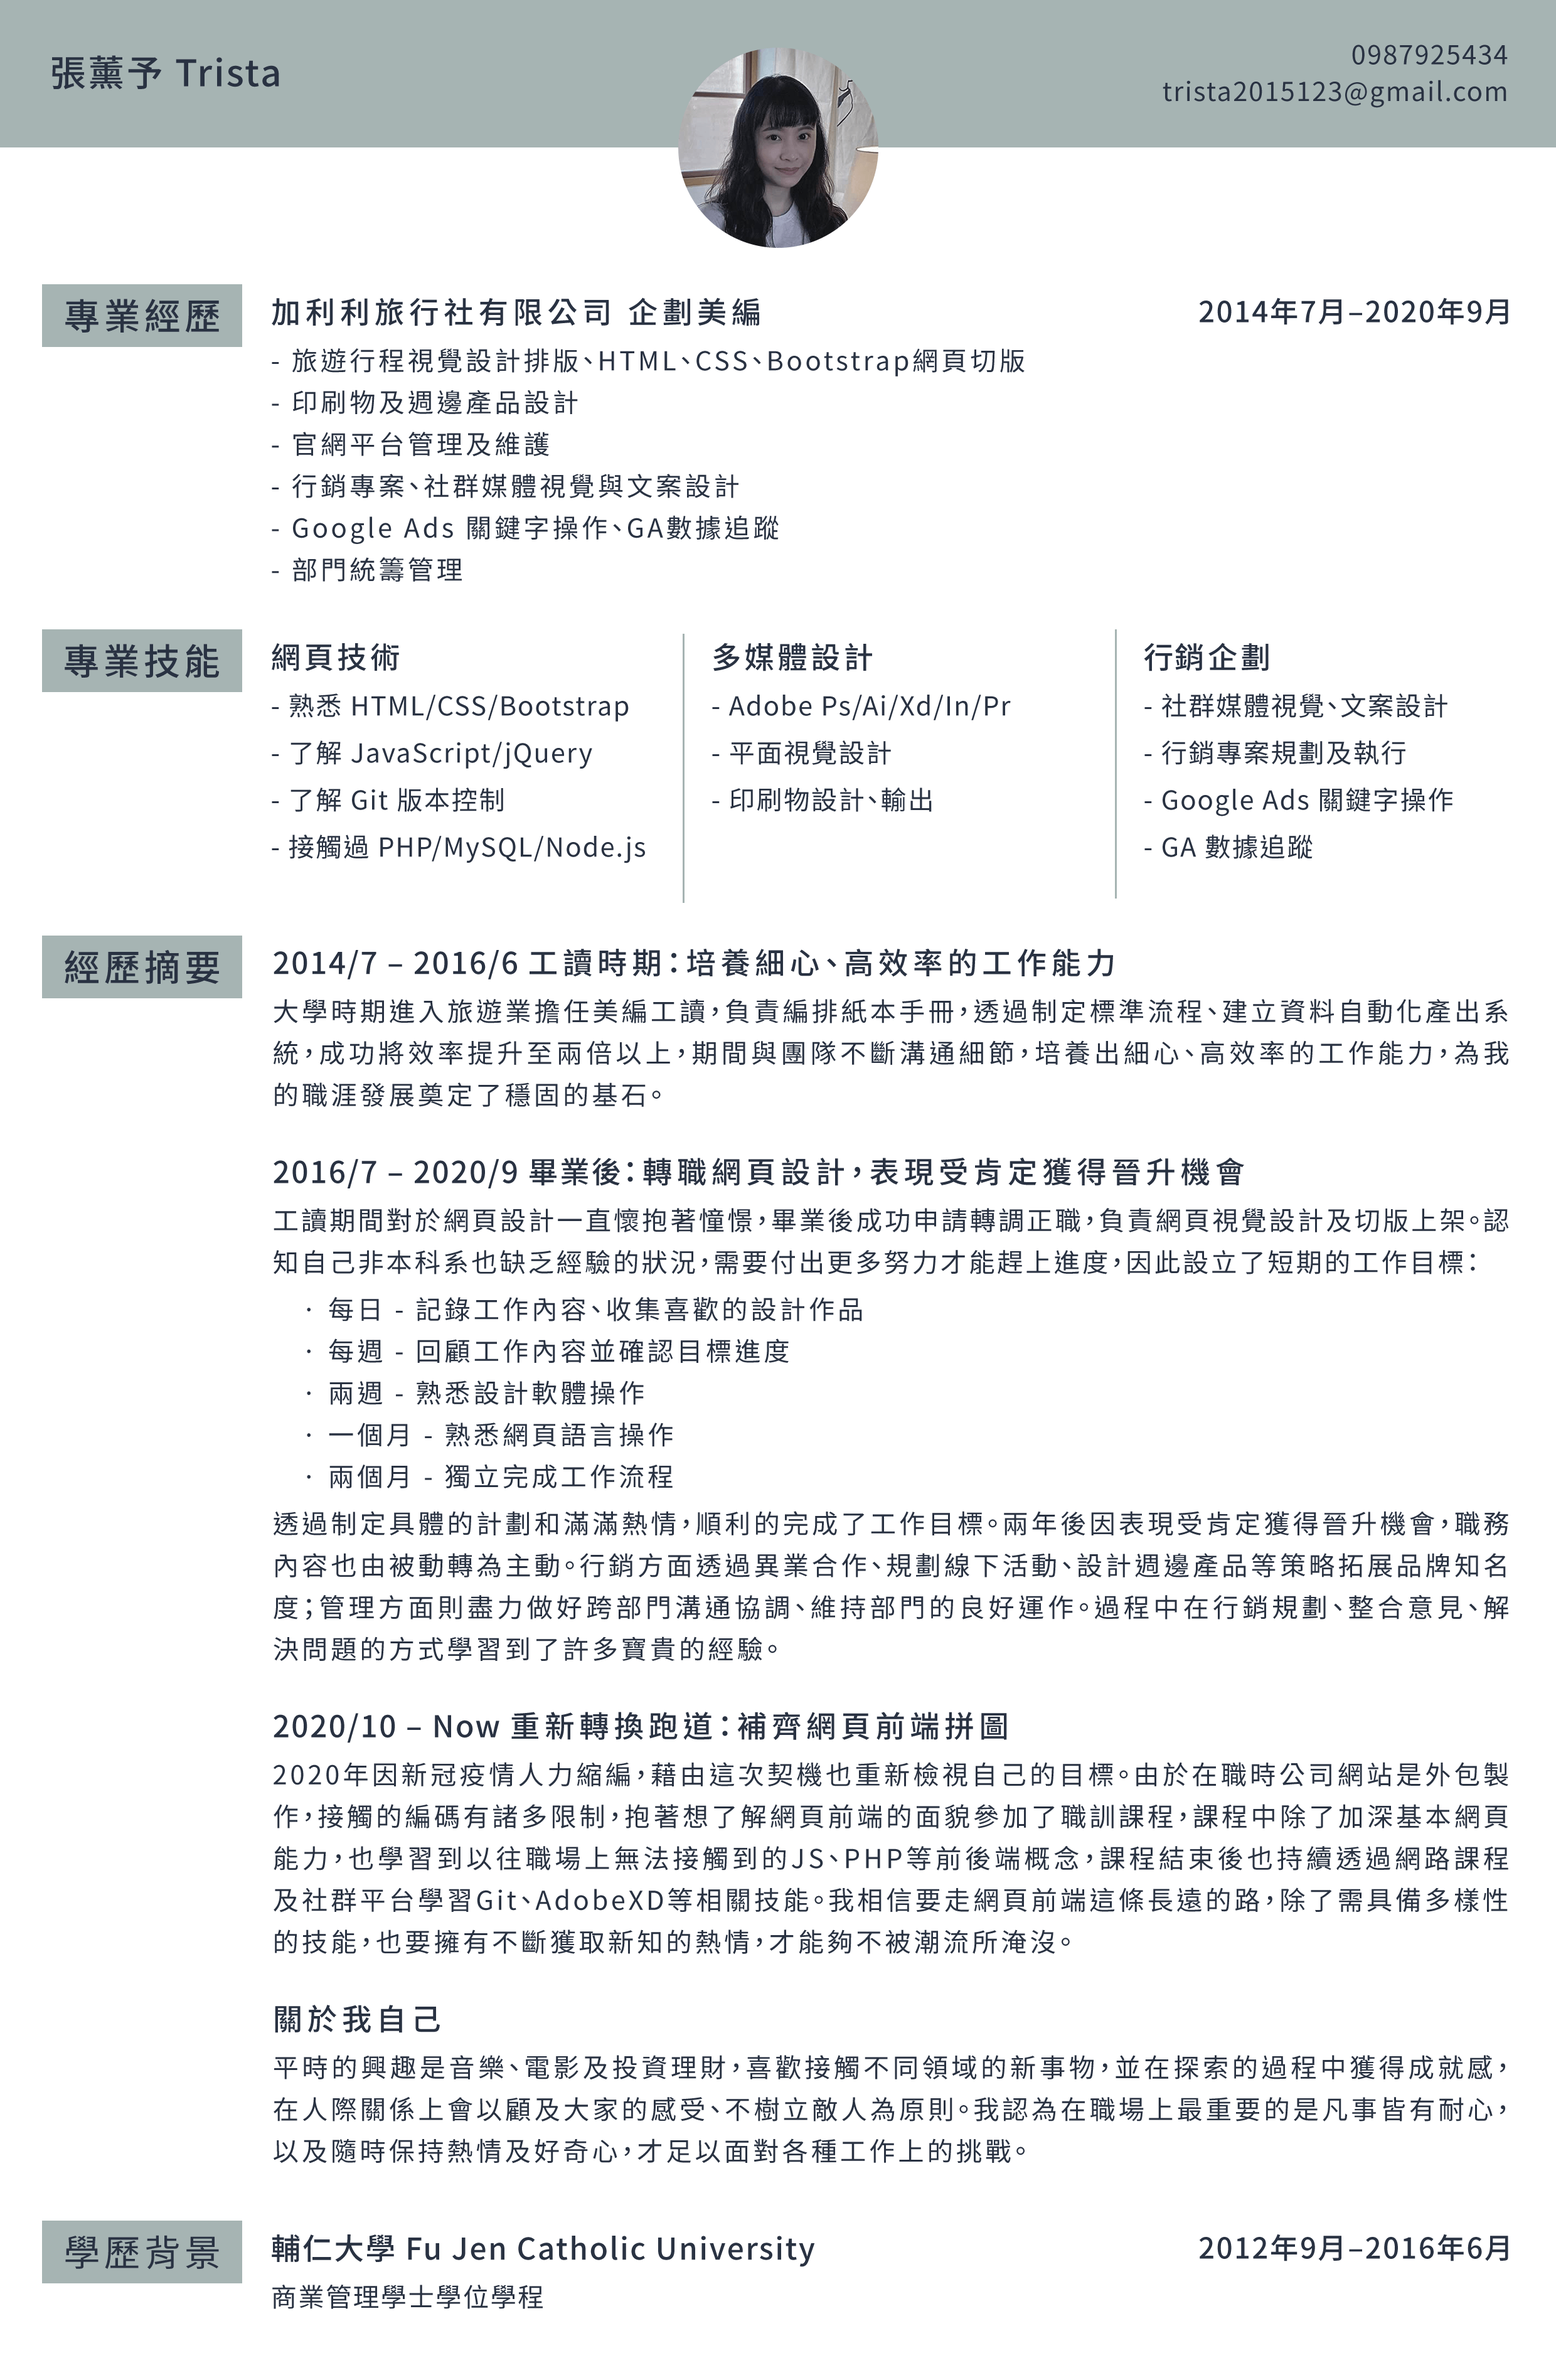
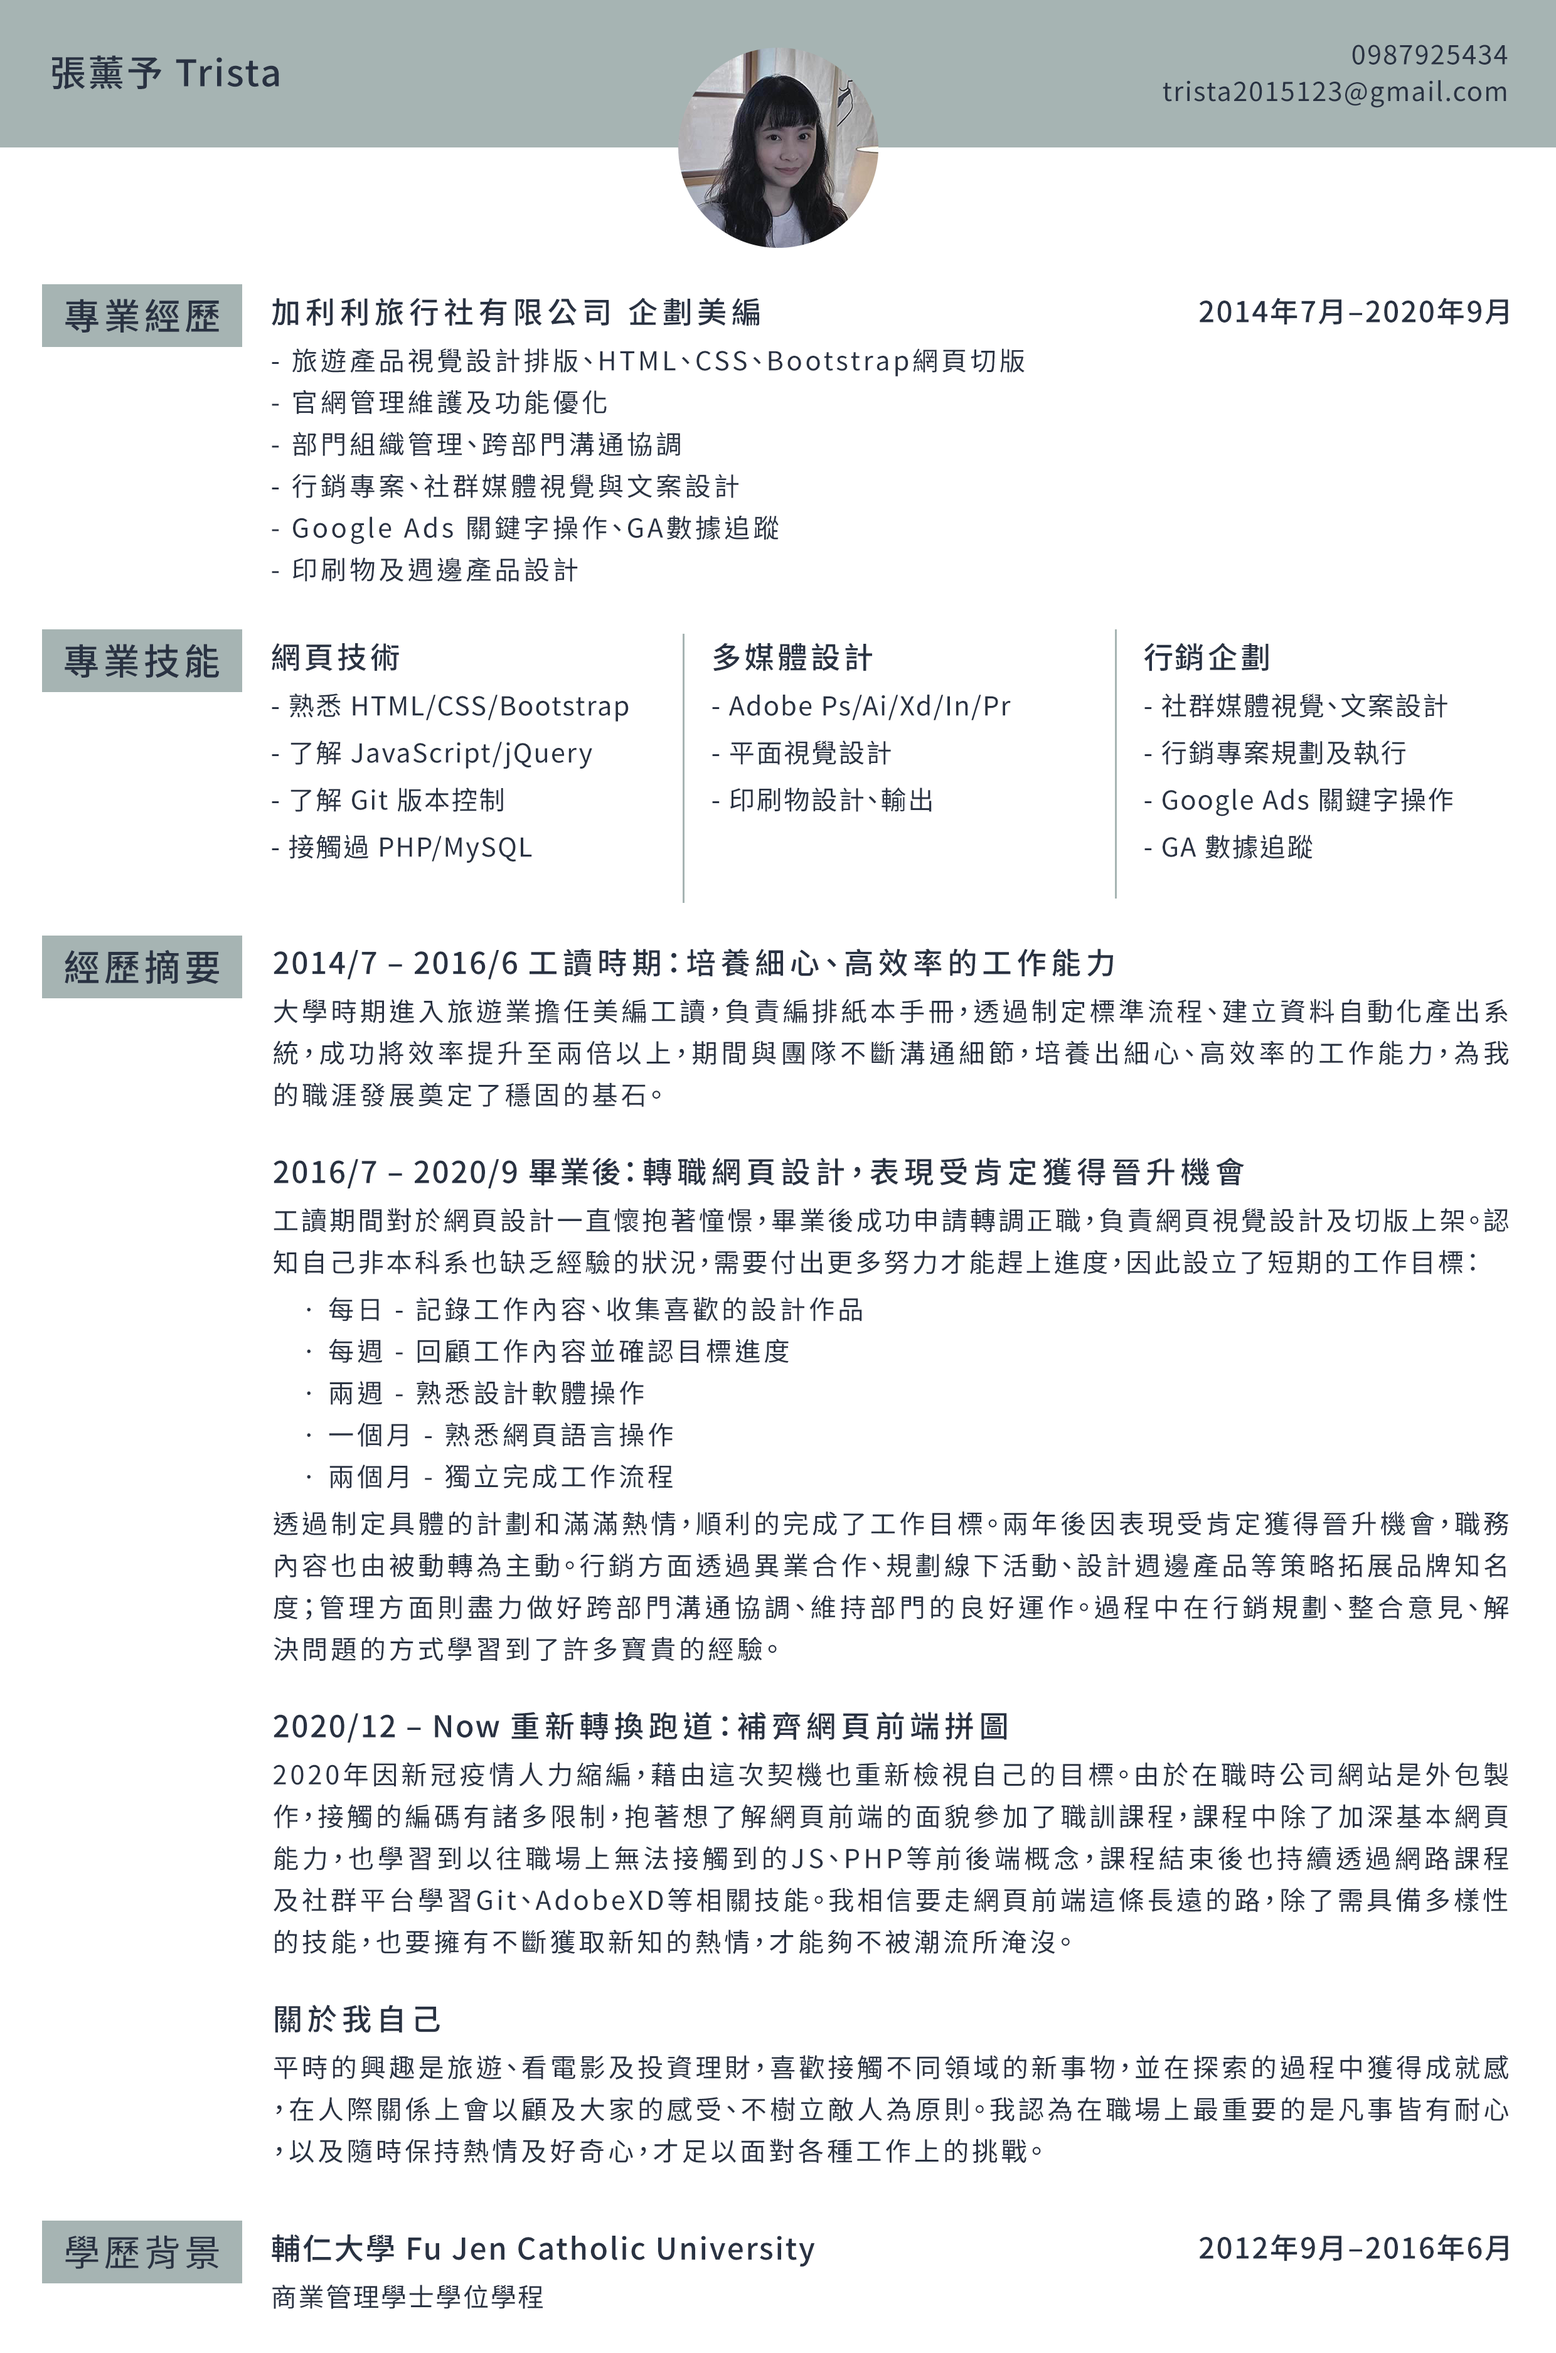
20210816-edit

Changed region(s): [[0.1863, 0.8736, 0.9625, 0.936], [0.1863, 0.156, 0.4036, 0.2496], [0.4036, 0.1872, 0.4347, 0.2184]]

diff --git a/index.html b/index.html
@@ -87,6 +87,7 @@
                     <p>郵件：trista2015123@gmail.com</p>
                     <p>手機：0987-925-434</p>
                     <p>生日：1992.09.25</p>
+                    <p>興趣：旅遊、看電影、投資理財</p>
                     <a href="resume.html" target="_blank" data-modal="#modalresume" class="modal-trigger btn-resume"><img src="images/icon/link_w.svg" alt=""></a>
                     <a href="https://github.com/trista0925" target="_blank" class="btn-resume"><img src="images/icon/github_w.svg" alt=""></a>
                     <a href="https://www.behance.net/tristadesign" target="_blank" class="btn-resume"><img src="images/icon/be_w.svg" alt=""></a>
@@ -105,7 +106,7 @@
                     <p>- 熟悉 HTML / CSS / Bootstrap</p>
                     <p>- 了解 JavaScript / jQuery</p>
                     <p>- 了解 Git 版本控制</p>
-                    <p>- 接觸過 PHP / MySQL / Node.js</p>
+                    <p>- 接觸過 PHP / MySQL</p>
                 </div>
                 <div class="skills-box  wow animate__animated animate__fadeInUp animate__slow">
                     <div class="skills-img"><img src="images/icon/vector.svg" alt=""></div>
